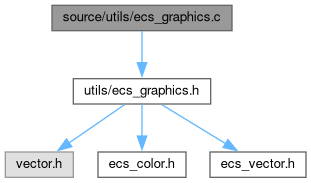
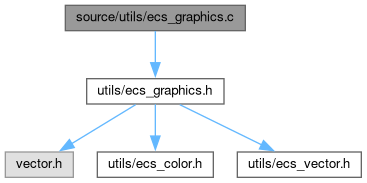
Deploying to gh-pages from @ osvegn/ECS@e1088d7eca842db515bce87bd3a8a5110230eb4c 🚀

diff --git a/docs/ECS/ecs__graphics_8h_source.html b/docs/ECS/ecs__graphics_8h_source.html
@@ -104,8 +104,8 @@ $(document).ready(function(){initNavTree('ecs__graphics_8h_source.html',''); ini
 <div class="line"><a id="l00008" name="l00008"></a><span class="lineno">    8</span><span class="comment"> */</span></div>
 <div class="line"><a id="l00009" name="l00009"></a><span class="lineno">    9</span> </div>
 <div class="line"><a id="l00010" name="l00010"></a><span class="lineno">   10</span><span class="preprocessor">#include &quot;vector.h&quot;</span></div>
-<div class="line"><a id="l00011" name="l00011"></a><span class="lineno">   11</span><span class="preprocessor">#include &quot;<a class="code" href="ecs__color_8h.html">ecs_color.h</a>&quot;</span></div>
-<div class="line"><a id="l00012" name="l00012"></a><span class="lineno">   12</span><span class="preprocessor">#include &quot;<a class="code" href="ecs__vector_8h.html">ecs_vector.h</a>&quot;</span></div>
+<div class="line"><a id="l00011" name="l00011"></a><span class="lineno">   11</span><span class="preprocessor">#include &quot;<a class="code" href="ecs__color_8h.html">utils/ecs_color.h</a>&quot;</span></div>
+<div class="line"><a id="l00012" name="l00012"></a><span class="lineno">   12</span><span class="preprocessor">#include &quot;<a class="code" href="ecs__vector_8h.html">utils/ecs_vector.h</a>&quot;</span></div>
 <div class="line"><a id="l00013" name="l00013"></a><span class="lineno">   13</span> </div>
 <div class="line"><a id="l00014" name="l00014"></a><span class="lineno"><a class="line" href="ecs__graphics_8h.html#acb9c9cc68358d7e15c3895140ac000be">   14</a></span><span class="keyword">typedef</span> <span class="keyword">enum</span> <a class="code hl_enumeration" href="ecs__graphics_8h.html#acb9c9cc68358d7e15c3895140ac000be">shape_color_e</a> {</div>
 <div class="line"><a id="l00015" name="l00015"></a><span class="lineno"><a class="line" href="ecs__graphics_8h.html#acb9c9cc68358d7e15c3895140ac000bea1d3754a297a681486f8cb3138a27c28b">   15</a></span>    <a class="code hl_enumvalue" href="ecs__graphics_8h.html#acb9c9cc68358d7e15c3895140ac000bea1d3754a297a681486f8cb3138a27c28b">FILL</a>,</div>

diff --git a/docs/ECS/ecs__graphics_8h.html b/docs/ECS/ecs__graphics_8h.html
@@ -100,17 +100,17 @@ $(document).ready(function(){initNavTree('ecs__graphics_8h.html',''); initResiza
 </div><!--header-->
 <div class="contents">
 <div class="textblock"><code>#include &quot;vector.h&quot;</code><br />
-<code>#include &quot;<a class="el" href="ecs__color_8h_source.html">ecs_color.h</a>&quot;</code><br />
-<code>#include &quot;<a class="el" href="ecs__vector_8h_source.html">ecs_vector.h</a>&quot;</code><br />
+<code>#include &quot;<a class="el" href="ecs__color_8h_source.html">utils/ecs_color.h</a>&quot;</code><br />
+<code>#include &quot;<a class="el" href="ecs__vector_8h_source.html">utils/ecs_vector.h</a>&quot;</code><br />
 </div><div class="textblock"><div class="dynheader">
 Include dependency graph for ecs_graphics.h:</div>
 <div class="dyncontent">
 <div class="center"><img src="ecs__graphics_8h__incl.png" border="0" usemap="#ainclude_2utils_2ecs__graphics_8h" alt=""/></div>
 <map name="ainclude_2utils_2ecs__graphics_8h" id="ainclude_2utils_2ecs__graphics_8h">
-<area shape="rect" title=" " alt="" coords="51,5,233,31"/>
+<area shape="rect" title=" " alt="" coords="64,5,247,31"/>
 <area shape="rect" title=" " alt="" coords="5,79,73,104"/>
-<area shape="rect" href="ecs__color_8h.html" title=" " alt="" coords="98,79,186,104"/>
-<area shape="rect" href="ecs__vector_8h.html" title=" " alt="" coords="210,79,306,104"/>
+<area shape="rect" href="ecs__color_8h.html" title=" " alt="" coords="97,79,213,104"/>
+<area shape="rect" href="ecs__vector_8h.html" title=" " alt="" coords="237,79,361,104"/>
 </map>
 </div>
 </div><div class="textblock"><div class="dynheader">

diff --git a/docs/ECS/ecs__graphics_8c.html b/docs/ECS/ecs__graphics_8c.html
@@ -102,11 +102,11 @@ Include dependency graph for ecs_graphics.c:</div>
 <div class="dyncontent">
 <div class="center"><img src="ecs__graphics_8c__incl.png" border="0" usemap="#asource_2utils_2ecs__graphics_8c" alt=""/></div>
 <map name="asource_2utils_2ecs__graphics_8c" id="asource_2utils_2ecs__graphics_8c">
-<area shape="rect" title=" " alt="" coords="52,5,232,31"/>
-<area shape="rect" href="ecs__graphics_8h.html" title=" " alt="" coords="73,79,211,104"/>
+<area shape="rect" title=" " alt="" coords="65,5,245,31"/>
+<area shape="rect" href="ecs__graphics_8h.html" title=" " alt="" coords="87,79,224,104"/>
 <area shape="rect" title=" " alt="" coords="5,152,73,177"/>
-<area shape="rect" href="ecs__color_8h.html" title=" " alt="" coords="98,152,186,177"/>
-<area shape="rect" href="ecs__vector_8h.html" title=" " alt="" coords="210,152,306,177"/>
+<area shape="rect" href="ecs__color_8h.html" title=" " alt="" coords="97,152,213,177"/>
+<area shape="rect" href="ecs__vector_8h.html" title=" " alt="" coords="237,152,361,177"/>
 </map>
 </div>
 </div><table class="memberdecls">
